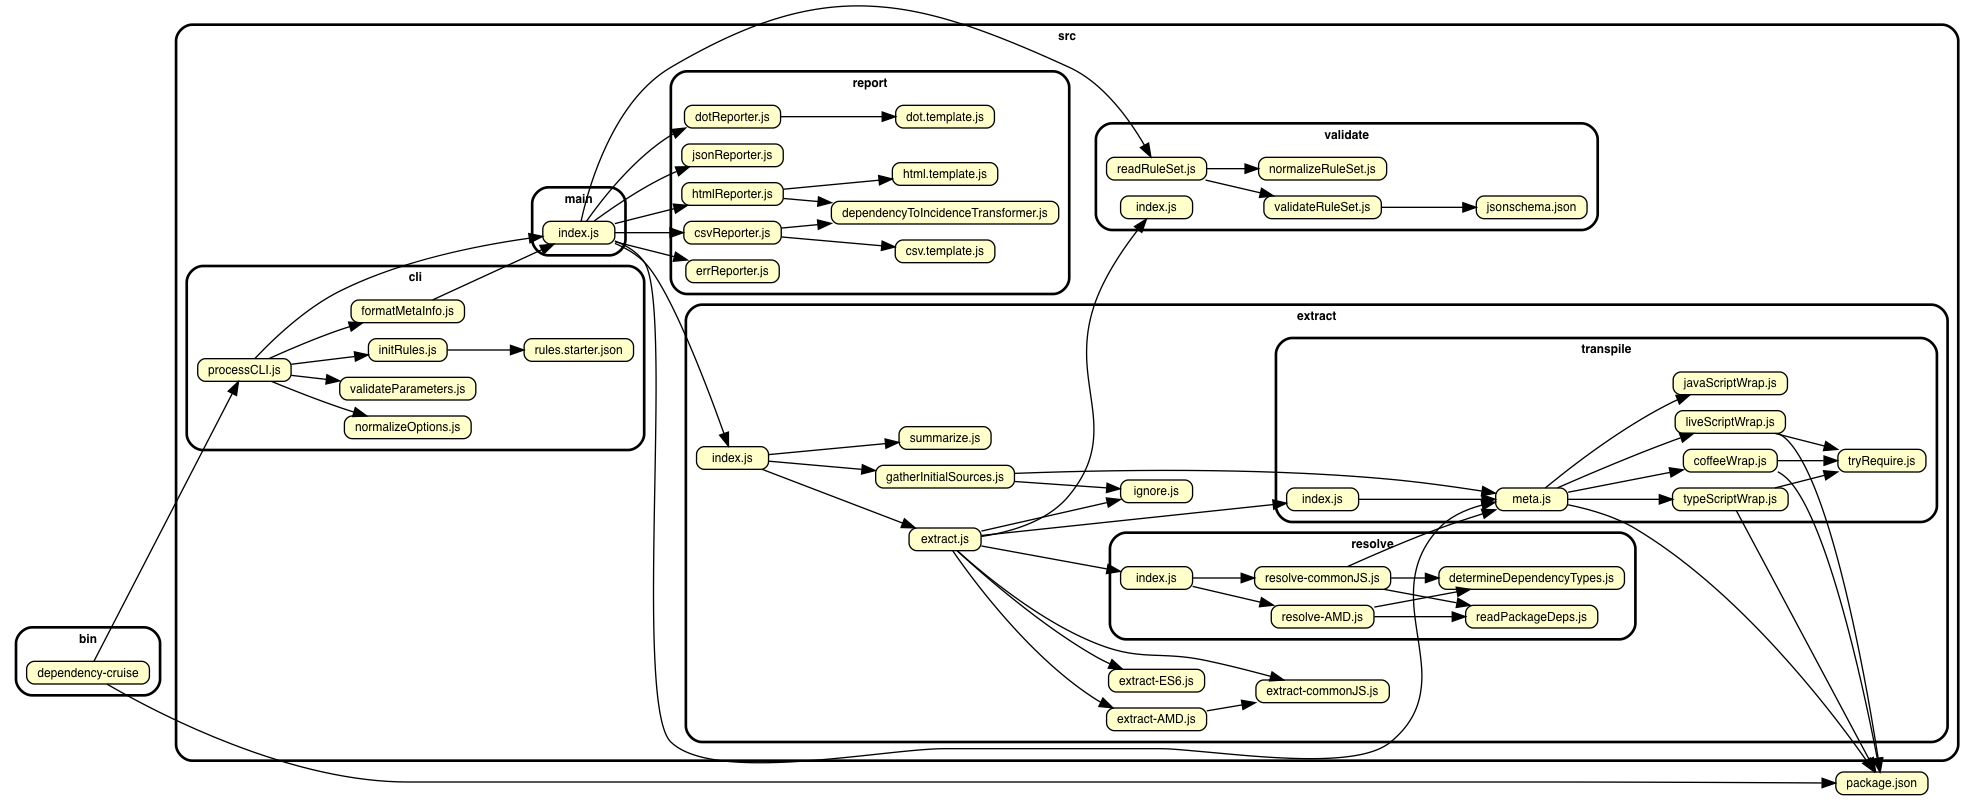
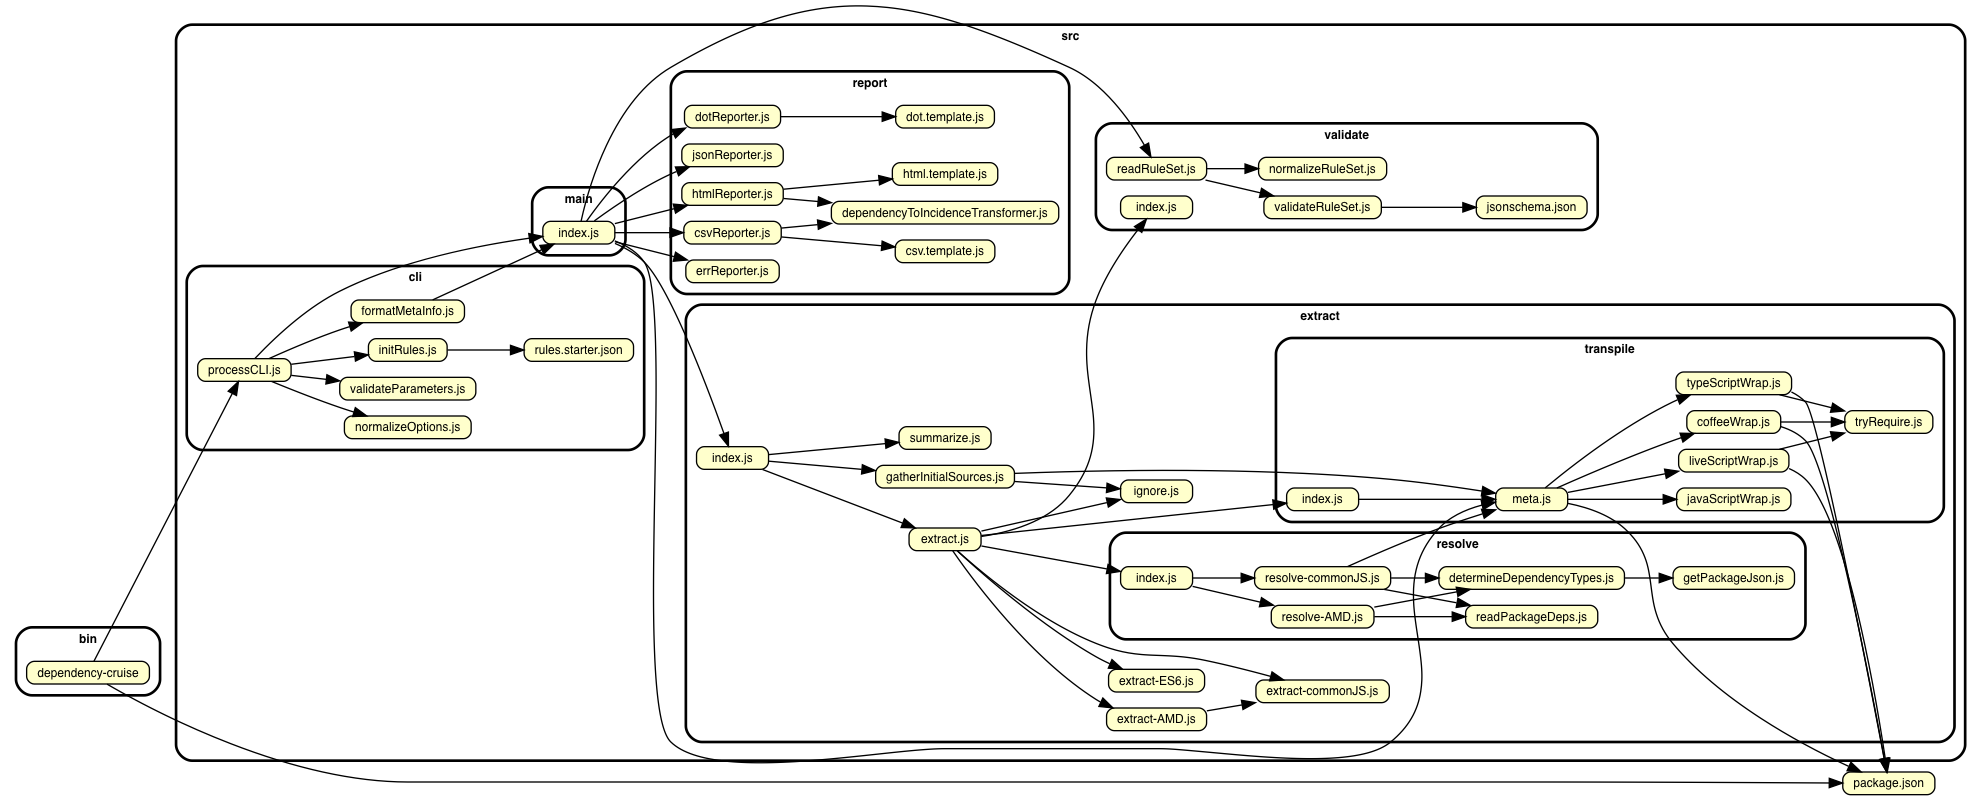
:hatching_chick: adds the option to check for dependencies on npm modules that are officially deprecated

diff --git a/test/extract/getPackageJson.spec.js b/test/extract/getPackageJson.spec.js
@@ -1,0 +1,57 @@
+"use strict";
+
+const expect = require('chai').expect;
+const getPackageJson = require('../../src/extract/resolve/getPackageJson');
+
+describe("getPackageJson", () => {
+    it("returns null if the module does not exist", () => {
+        expect(
+            getPackageJson(
+                './module-does-not-exist'
+            )
+        ).to.be.null;
+    });
+
+    it("returns null if there's no package.json for the module", () => {
+        expect(
+            getPackageJson(
+                'test/estract//fixtures/deprecated-node-module/require-something-deprecated'
+            )
+        ).to.be.null;
+    });
+
+    it("returns null if there's no package.json for the module", () => {
+        expect(
+            getPackageJson(
+                './require-something-deprecated',
+                './fixtures/deprecated-node-module/'
+            )
+        ).to.be.null;
+    });
+
+    it("returns a package.json when there is one", () => {
+        let lPackageJson = getPackageJson(
+            'chai'
+        );
+
+        expect(
+            lPackageJson
+        ).to.be.not.null;
+        expect(lPackageJson.hasOwnProperty('name')).to.be.true;
+        expect(lPackageJson.name).to.equal('chai');
+    });
+
+    it("returns a package.json when there is one ('local' node_modules)", () => {
+        let lPackageJson = getPackageJson(
+            'deprecated-at-the-start-for-test-purposes',
+            './test/extract/fixtures/deprecated-node-module/'
+        );
+
+        expect(
+            lPackageJson
+        ).to.be.not.null;
+        expect(lPackageJson.hasOwnProperty('name')).to.be.true;
+        expect(lPackageJson.name).to.equal('deprecated-at-the-start-for-test-purposes');
+    });
+});
+/* eslint no-unused-expressions: 0 */

diff --git a/src/extract/resolve/determineDependencyTypes.js b/src/extract/resolve/determineDependencyTypes.js
@@ -1,6 +1,7 @@
 "use strict";
 
-const resolve = require('resolve');
+const resolve        = require("resolve");
+const getPackageJson = require("./getPackageJson");
 
 const npm2depType = {
     "dependencies"         : "npm",
@@ -8,6 +9,16 @@ const npm2depType = {
     "optionalDependencies" : "npm-optional",
     "peerDependencies"     : "npm-peer"
 };
+
+function dependencyIsDeprecated(pModule, pBaseDir) {
+    let lRetval = false;
+    let lPackageJson = getPackageJson(pModule, pBaseDir);
+
+    if (Boolean(lPackageJson)){
+        lRetval = lPackageJson.hasOwnProperty("deprecated");
+    }
+    return lRetval;
+}
 
 function determineNpmDependencyTypes(pModuleName, pPackageDeps) {
     let lRetval = ["npm-unknown"];
@@ -21,11 +32,11 @@ function determineNpmDependencyTypes(pModuleName, pPackageDeps) {
             .map(pKey => npm2depType[pKey] || "npm-no-pkg");
         lRetval = lRetval.length === 0 ? ["npm-no-pkg"] : lRetval;
     }
+
     return lRetval;
 }
 
-
-module.exports = (pDependency, pModuleName, pPackageDeps) => {
+module.exports = (pDependency, pModuleName, pPackageDeps, pBaseDir) => {
     let lRetval = ["undetermined"];
 
     if (pDependency.couldNotResolve) {
@@ -45,6 +56,11 @@ module.exports = (pDependency, pModuleName, pPackageDeps) => {
         // '/' (if any) - because e.g. 'lodash/fp' is ultimately the 'lodash'
         // package
         lRetval = determineNpmDependencyTypes(pModuleName.split("/")[0], pPackageDeps);
+
+        if (dependencyIsDeprecated(pModuleName, pBaseDir)) {
+            lRetval.push("deprecated");
+        }
+
     }
 
     return lRetval;

diff --git a/src/extract/resolve/getPackageJson.js b/src/extract/resolve/getPackageJson.js
@@ -1,0 +1,41 @@
+const fs      = require('fs');
+const path    = require('path');
+const resolve = require('resolve');
+
+/**
+ * returns the contents of the package.json of the given pModule as it would
+ * resolve from pBaseDir
+ *
+ * e.g. to get the package.json of `lodash` that is required bya
+ * `src/report/something.js` use `getPackageJSON('lodash', 'src/report/');`
+ *
+ * The pBaseDir parameter is necessary because dependency-cruiser/ this module
+ * will have a different base dir, and will hence resolve either to the
+ * wrong package or not to a package at all.
+ *
+ * @param  {string} pModule  The module to get the package.json of
+ * @param  {string} pBaseDir The base dir. Defaults to '.'
+ * @return {object}          The package.json as a javascript object, or
+ *                           null if either module or package.json could
+ *                           not be found
+ */
+module.exports = (pModule, pBaseDir) => {
+    let lRetval = null;
+
+    try {
+        let lPackageJsonFilename = resolve.sync(
+            path.join(pModule.split("/")[0], "package.json"),
+            {
+                basedir: pBaseDir ? pBaseDir : "."
+            }
+        );
+
+        lRetval = JSON.parse(
+            fs.readFileSync(lPackageJsonFilename, 'utf8')
+        );
+
+    } catch (e) {
+        // left empty on purpose
+    }
+    return lRetval;
+};

diff --git a/test/extract/extract-composite.spec.js b/test/extract/extract-composite.spec.js
@@ -4,6 +4,7 @@ const chai                    = require('chai');
 const expect                  = chai.expect;
 const extract                 = require('../../src/extract');
 const cjsRecursiveFixtures    = require('./fixtures/cjs-recursive.json');
+const deprecationFixtures     = require('./fixtures/deprecated-node-module.json');
 const amdRecursiveFixtures    = require('./fixtures/amd-recursive.json');
 const tsRecursiveFixtures     = require('./fixtures/ts-recursive.json');
 const coffeeRecursiveFixtures = require('./fixtures/coffee-recursive.json');
@@ -27,6 +28,7 @@ function runRecursiveFixture(pFixture) {
 }
 
 describe('CommonJS recursive - ', () => cjsRecursiveFixtures.forEach(runRecursiveFixture));
+describe('Deprecation - ', () => deprecationFixtures.forEach(runRecursiveFixture));
 describe('AMD recursive - ', () => amdRecursiveFixtures.forEach(runRecursiveFixture));
 describe('TypeScript recursive - ', () => tsRecursiveFixtures.forEach(runRecursiveFixture));
 describe('CoffeeScript recursive - ', () => coffeeRecursiveFixtures.forEach(runRecursiveFixture));

diff --git a/src/extract/resolve/resolve-AMD.js b/src/extract/resolve/resolve-AMD.js
@@ -41,7 +41,8 @@ module.exports = (pModuleName, pBaseDir, pFileDir) => {
             dependencyTypes: determineDependencyTypes(
                 lDependency,
                 pModuleName,
-                readPackageDeps(pBaseDir)
+                readPackageDeps(pBaseDir),
+                pFileDir
             )
         }
     );

diff --git a/src/extract/resolve/resolve-commonJS.js b/src/extract/resolve/resolve-commonJS.js
@@ -46,7 +46,8 @@ module.exports = (pModuleName, pBaseDir, pFileDir) => {
             dependencyTypes: determineDependencyTypes(
                 lRetval,
                 pModuleName,
-                readPackageDeps(pBaseDir)
+                readPackageDeps(pBaseDir),
+                pFileDir
             )
         }
     );

diff --git a/test/extract/fixtures/deprecated-node-module/require-something-deprecated.js b/test/extract/fixtures/deprecated-node-module/require-something-deprecated.js
@@ -1,0 +1,1 @@
+const weShouldNotRequireThis = require('deprecated-at-the-start-for-test-purposes');

diff --git a/doc/rules-reference.md b/doc/rules-reference.md
@@ -212,6 +212,7 @@ This is a list of dependency types dependency-cruiser currently detects.
  npm-peer        | it's a module in package.json's `peerDependencies` - note: deprecated in npm 3 | "thing-i-am-a-plugin-for"
  npm-no-pkg      | it's an npm module - but it's nowhere in your package.json | "forgetmenot"
  npm-unknown     | it's an npm module - but there is no (parseable/ valid) package.json in your package |
+ deprecated      | it's an npm module, but the version you're using or the module itself is officially deprecated                                | "some-deprecated-package"
  core            | it's a core module                                | "fs"
  unknown         | it's unknown what kind of dependency type this is - probably because the module could not be resolved in the first place | "loodash"
  undetermined    | the dependency fell through all detection holes. This could happen with amd dependencies - which have a whole jurasic park of ways to define where to resolve modules to | "veloci!./raptor"
